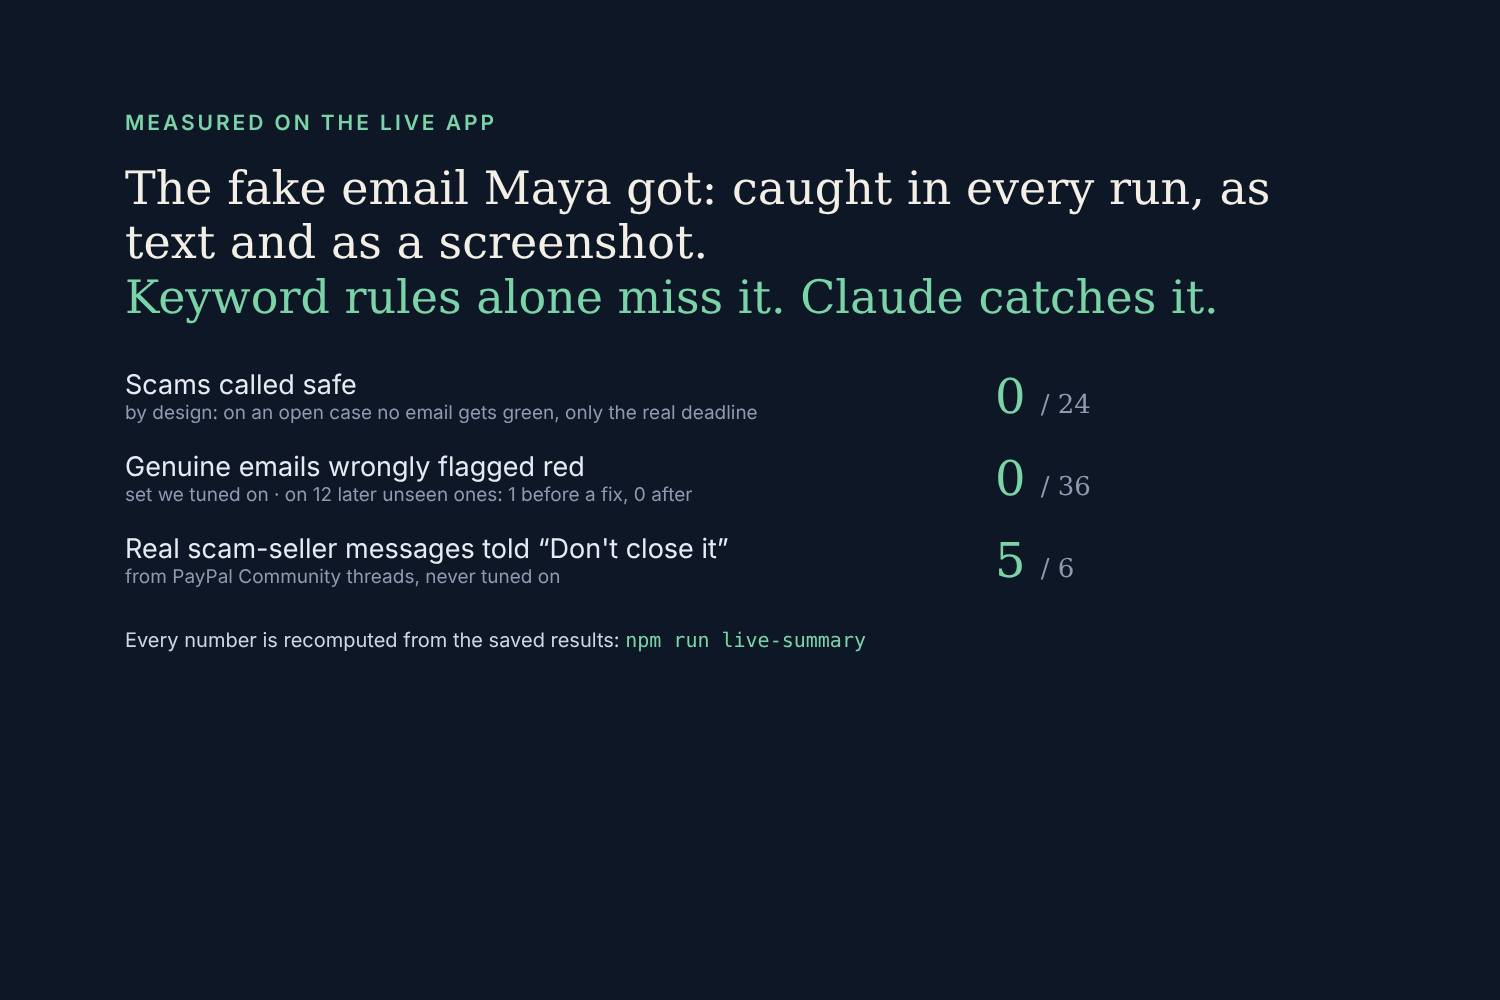
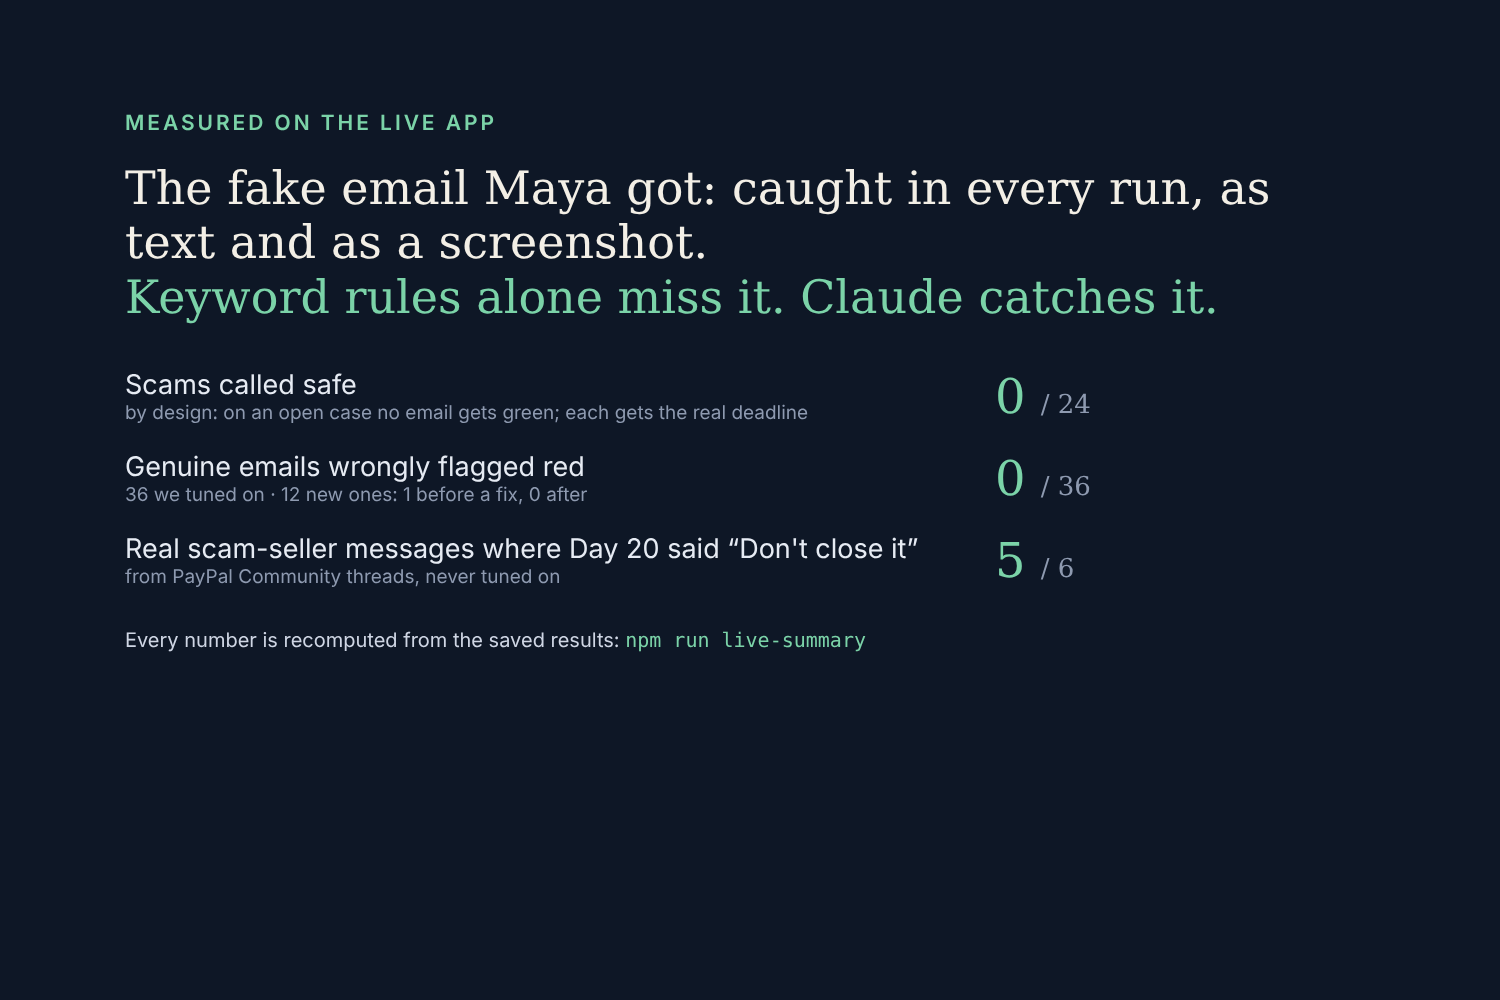
Wording a judge could misread: whose lie, who 'she' is, who said 'Don't close it', pitch

Changed region(s): [[0.092, 0.465, 0.6133, 0.558], [0.368, 0.403, 0.552, 0.434], [0.4293, 0.465, 0.46, 0.496]]

diff --git a/docs/DEVPOST.md b/docs/DEVPOST.md
@@ -1,7 +1,7 @@
 # Devpost submission: Day 20
 
 **Name:** Day 20: Emails can lie. Your PayPal case can't.
-**Tagline:** Day 20 checks any email or screenshot about a PayPal dispute against the buyer's real case, and keeps the 20-day clock so her case doesn't close by itself.
+**Tagline:** Day 20 checks any email or screenshot about a PayPal dispute against the buyer's real case, and tracks the 20-day deadline so she acts before her case closes by itself.
 **Try it:** https://day20.onrender.com (tap "Try it as Maya", no sign-in) · **Code:** https://github.com/dalyathan/day20 (MIT) · **Video:** https://youtu.be/7K4jMCAOZwI
 
 **In one line:** Day 20 checks any email about a PayPal dispute against the buyer's real case, and tells her what's true, what isn't, and what to do before the case closes by itself.
@@ -16,7 +16,7 @@ No link, no "click here", nothing a spam filter would flag. And it isn't true. I
 
 Emails like this work because they look real: they can name a real case number and even arrive from a real PayPal address ([KnowBe4](https://blog.knowbe4.com/paypal-scam-from-paypal), [Malwarebytes](https://www.malwarebytes.com/blog/news/2026/04/more-paypal-emails-hijacked-to-deliver-tech-support-scams)). Online shopping was the second most reported fraud category in the FTC's 2024 data ([FTC](https://www.ftc.gov/news-events/news/press-releases/2025/03/new-ftc-data-show-big-jump-reported-losses-fraud-125-billion-2024)). Maya has ten minutes on a night break, so Day 20's answer is one line, and the deadline is a date.
 
-**How her night ends:** she checks the USPS page and types in the Tucson ZIP. She screenshots the email and asks Day 20: *"This email is wrong about your PayPal case. PayPal shows no refund. Your case is still open: 13 days left, it closes Tue, Dec 1. Don't close it."* She escalates in PayPal. At 3:19 a.m. she's back with her patients, and on Dec 1 her case is with a PayPal reviewer instead of closed.
+**How her night ends:** she checks the USPS page and types in the Tucson ZIP. She screenshots the email, and Day 20 answers: *"This email is wrong about your PayPal case. PayPal shows no refund. Your case is still open: 13 days left, it closes Tue, Dec 1. Don't close it."* She escalates in PayPal. At 3:19 a.m. she's back with her patients, and on Dec 1 her case is with a PayPal reviewer instead of closed.
 
 ## What it does
 
@@ -24,7 +24,7 @@ Emails like this work because they look real: they can name a real case number a
 - **Checks any email or screenshot against it.** Refund claims, "your case is closed", requests to close or cancel, lookalike links, requests for codes, stalling. It judges the claims, not the sender.
 - **Answers in one line**, from PayPal's record, with the deadline as a date.
 - **Gives the next step**, including "not yet" when an honest seller deserves time and "not covered" when Buyer Protection doesn't apply.
-- **Drafts a one-page case for the reviewer**, with the two facts she can check first: the carrier's delivered ZIP and PayPal's ship-to ZIP. Every line is labelled PayPal record, PayPal can check, or buyer reports.
+- **Drafts a one-page case for the reviewer**, with the two facts the reviewer can check first: the carrier's delivered ZIP and PayPal's ship-to ZIP. Every line is labelled PayPal record, PayPal can check, or buyer reports.
 - **Reminders on day 15 and day 18**, if she wants them.
 - **Works in English and Spanish.**
 
@@ -33,15 +33,15 @@ It only reads. Escalating, closing or accepting is always her call, in PayPal.
 ## How PayPal and Claude work together
 
 - **PayPal** is the source of truth: Day 20 reads the dispute, follows it to the order for the ship-to address and tracking, and keeps the clock.
-- **Claude** reads the email or the screenshot and works out what it claims, including reworded lies with no link and no keyword, like Maya's. Every red flag it raises must quote the email (for a screenshot, the text it read from it).
+- **Claude** reads the email or the screenshot and works out what it claims, including reworded lies with no link and no keyword, like the one in Maya's email. Every red flag it raises must quote the email (for a screenshot, the text it read from it).
 - **Day 20** compares each claim with PayPal's record, decides the verdict and the deadline, and writes every sentence Maya reads. So the answer always comes from her case, never from the model's opinion.
 
 ## Results, on the live app
 
 - **Maya's email was caught in every run**, as text and as a screenshot. Keyword rules alone don't catch it; Claude's quote-checked reading does. (It's one of the scam emails we tuned on.)
 - **No scam was called safe.** On an open case no email can get green, so any scam not flagged red still got "Go by your PayPal case, not this email" and the real deadline.
-- **Genuine emails flagged red: 0 of 36.** On 12 more, written later by someone who never saw the code: 1 before a fix (a real refund from another shop), 0 after.
-- **Real messages scam sellers sent buyers** (6, quoted in PayPal Community threads, never tuned on): 5 of 6 told "Don't close it" in every run.
+- **Genuine emails flagged red: 0 of 36.** On 12 more, written later by someone who never saw the code: 1 flagged before a fix (a real refund email from another shop), 0 after.
+- **Real messages scam sellers sent buyers** (6, quoted in PayPal Community threads, never tuned on): for 5 of 6, Day 20 said "Don't close it" in every run.
 
 `npm run live-summary` recomputes every number from the saved results in [`tests/live/`](https://github.com/dalyathan/day20/tree/main/tests/live).
 
